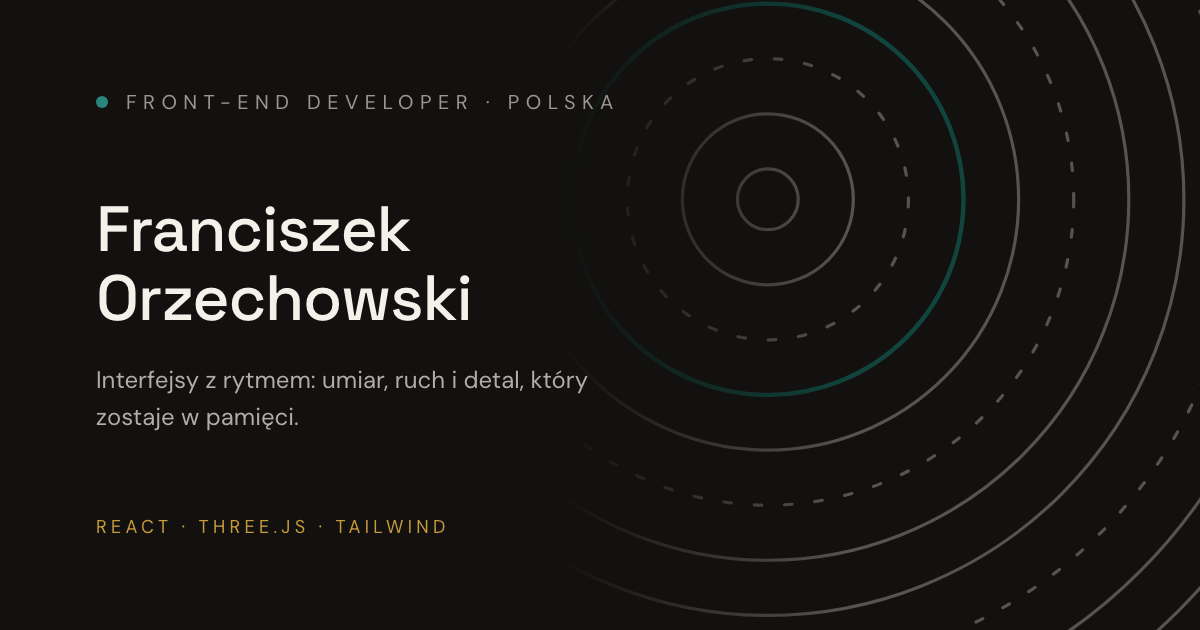
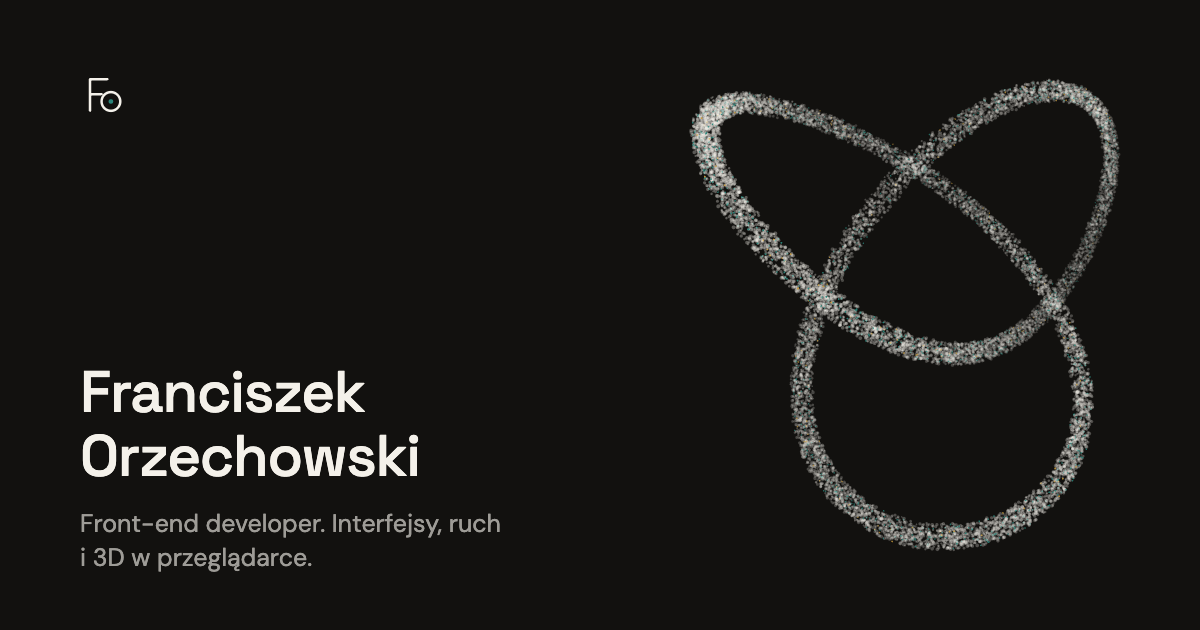
feat: complete meta tags, refresh og image and drop em dashes
- Fill canonical, og:url, og:image and JSON-LD with absolute URLs from
  Netlify's build-time URL via a small Vite HTML plugin.
- Add og:site_name, image alt texts, author and an apple-touch-icon.
- Redraw og.png from the hero knot geometry; the old image carried a
  role/location tag row and ochre text.
- Rewrite copy and meta without em dashes and normalise dashes in GitHub
  commit messages before they render.

diff --git a/index.html b/index.html
@@ -4,32 +4,70 @@
     <meta charset="UTF-8" />
     <meta name="viewport" content="width=device-width, initial-scale=1.0" />
     <link rel="icon" type="image/svg+xml" href="/favicon.svg" />
+    <link rel="apple-touch-icon" href="/apple-touch-icon.png" />
 
-    <title>Franciszek Orzechowski — Portfolio</title>
+    <title>Franciszek Orzechowski · Front-end developer</title>
     <meta
       name="description"
-      content="Portfolio Franka Orzechowskiego — front-end developer specjalizujący się w nowoczesnych interfejsach, animacjach i 3D."
+      content="Franciszek Orzechowski, front-end developer z Warszawy. React i TypeScript, ruch i 3D w przeglądarce, a do tego backend: Node, Java i bazy danych."
     />
-
-    <meta property="og:type" content="website" />
-    <meta property="og:title" content="Franciszek Orzechowski — Portfolio" />
-    <meta
-      property="og:description"
-      content="Front-end developer · interfejsy, motion, 3D."
-    />
-    <meta property="og:locale" content="pl_PL" />
-    <meta property="og:image" content="/og.png" />
-    <meta property="og:image:width" content="1200" />
-    <meta property="og:image:height" content="630" />
+    <meta name="author" content="Franciszek Orzechowski" />
+    <link rel="canonical" href="%SITE_URL%/" />
     <meta name="theme-color" content="#12110f" />
 
+    <meta property="og:type" content="website" />
+    <meta property="og:url" content="%SITE_URL%/" />
+    <meta property="og:site_name" content="Franciszek Orzechowski" />
+    <meta
+      property="og:title"
+      content="Franciszek Orzechowski · Front-end developer"
+    />
+    <meta
+      property="og:description"
+      content="Front-end developer z Warszawy. Interfejsy, ruch i 3D w przeglądarce."
+    />
+    <meta property="og:locale" content="pl_PL" />
+    <meta property="og:image" content="%SITE_URL%/og.png" />
+    <meta property="og:image:type" content="image/png" />
+    <meta property="og:image:width" content="1200" />
+    <meta property="og:image:height" content="630" />
+    <meta
+      property="og:image:alt"
+      content="Franciszek Orzechowski, front-end developer. Węzeł z cząsteczek na ciemnym tle."
+    />
+
     <meta name="twitter:card" content="summary_large_image" />
-    <meta name="twitter:title" content="Franciszek Orzechowski — Portfolio" />
+    <meta
+      name="twitter:title"
+      content="Franciszek Orzechowski · Front-end developer"
+    />
     <meta
       name="twitter:description"
-      content="Front-end developer · interfejsy, motion, 3D."
+      content="Front-end developer z Warszawy. Interfejsy, ruch i 3D w przeglądarce."
     />
-    <meta name="twitter:image" content="/og.png" />
+    <meta name="twitter:image" content="%SITE_URL%/og.png" />
+    <meta
+      name="twitter:image:alt"
+      content="Franciszek Orzechowski, front-end developer. Węzeł z cząsteczek na ciemnym tle."
+    />
+
+    <script type="application/ld+json">
+      {
+        "@context": "https://schema.org",
+        "@type": "Person",
+        "name": "Franciszek Orzechowski",
+        "jobTitle": "Front-end developer",
+        "url": "%SITE_URL%/",
+        "image": "%SITE_URL%/og.png",
+        "address": {
+          "@type": "PostalAddress",
+          "addressLocality": "Warszawa",
+          "addressCountry": "PL"
+        },
+        "knowsAbout": ["React", "TypeScript", "WebGL", "Three.js", "Node.js"],
+        "sameAs": ["https://github.com/fraorzi"]
+      }
+    </script>
   </head>
   <body>
     <div id="root"></div>

diff --git a/src/content/site.ts b/src/content/site.ts
@@ -46,7 +46,7 @@ export const contact = {
 
 export const hero = {
   title: 'Front-end developer. Interfejsy, ruch i\u00a03D w\u00a0przeglądarce',
-  lead: 'Franciszek Orzechowski, Warszawa. Na co dzień React i TypeScript; kiedy trzeba zejść niżej — Node, Java, Swift i bazy danych.',
+  lead: 'Franciszek Orzechowski, Warszawa. Na co dzień React i TypeScript, a kiedy trzeba zejść niżej: Node, Java, Swift i bazy danych.',
   primaryCta: 'Zobacz projekt',
   secondaryCta: 'Napisz do mnie',
 };
@@ -54,7 +54,7 @@ export const hero = {
 export const about = {
   title:
     'Piszę front-end od kilku lat. Backend znam na tyle, żeby projektować całość, nie tylko warstwę widoku',
-  body: 'Pracuję głównie w React i TypeScript. Interesują mnie ruch, 3D w przeglądarce i te małe decyzje, przez które produkt wydaje się przemyślany. Ostatnio dużo czasu spędzam w Swift i C, pisząc narzędzie do przeglądu kodu. Znam też drugą stronę — Node, Java, bazy danych — więc z backendem rozmawiam bez tłumacza.',
+  body: 'Pracuję głównie w React i TypeScript. Interesują mnie ruch, 3D w przeglądarce i te małe decyzje, przez które produkt wydaje się przemyślany. Ostatnio dużo czasu spędzam w Swift i C, pisząc narzędzie do przeglądu kodu. Znam też drugą stronę (Node, Java, bazy danych), więc z backendem rozmawiam bez tłumacza.',
   facts: [
     { label: 'Baza', value: 'Warszawa' },
     { label: 'Praca', value: 'zdalnie lub hybrydowo' },
@@ -79,12 +79,12 @@ export const projects: readonly Project[] = [
     repo: { owner: 'fraorzi', name: 'diffscope_swift' },
     title: 'DiffScope',
     summary:
-      'Aplikacja macOS do przeglądu diffów w lokalnych repozytoriach Git. Dopasowuje zmiany strukturalnie, nie tylko liniami — i nigdy nie ukrywa różnicy w tekście.',
+      'Aplikacja macOS do przeglądu diffów w lokalnych repozytoriach Git. Dopasowuje zmiany strukturalnie, nie tylko liniami, i nigdy nie ukrywa różnicy w tekście.',
     role: 'Solo: produkt, architektura, silnik diffów',
     platform: 'macOS · tylko odczyt · bez sieci',
     detail: [
       'Silnik w C wyrównuje edycje strukturalnie: usunięty wrapper JSX, przestawione propsy czy przeformatowany plik czytają się jako to, czym są.',
-      'Trzy tryby widoku — strukturalny, rozszerzony, surowy — zawsze side-by-side. Dokładny tekst źródłowy jest źródłem prawdy.',
+      'Trzy tryby widoku: strukturalny, rozszerzony i surowy, zawsze side-by-side. Dokładny tekst źródłowy jest źródłem prawdy.',
       'Diff strukturalny dla TS, TSX, JS i JSX; pozostałe pliki jako czytelnie oznaczony diff tekstowy.',
     ],
     stack: ['Swift', 'C', 'SwiftUI', 'Git'],
@@ -141,7 +141,7 @@ export const recentCopy = {
   lead: 'Tempo pracy z ostatnich dwunastu tygodni.',
   commits: (weeks: number) => `commitów w ostatnich ${weeks} tygodniach`,
   activityLabel: 'Commity tygodniowo',
-  empty: 'GitHub chwilowo nie odpowiada — pokazuję ostatni zapisany stan.',
+  empty: 'GitHub chwilowo nie odpowiada, więc pokazuję ostatni zapisany stan.',
 };
 
 export const contactCopy = {

diff --git a/vite.config.ts b/vite.config.ts
@@ -20,12 +20,23 @@ function reactScanDev(enabled: boolean): Plugin {
   };
 }
 
+function siteUrl(url: string): Plugin {
+  return {
+    name: 'site-url',
+    transformIndexHtml: {
+      order: 'pre',
+      handler: (html) => html.replaceAll('%SITE_URL%', url),
+    },
+  };
+}
+
 export default defineConfig(({ mode }) => {
   const env = loadEnv(mode, process.cwd(), '');
   const scanEnabled = env.REACT_SCAN !== 'false';
+  const site = (env.URL ?? 'http://localhost:4173').replace(/\/$/, '');
 
   return {
-    plugins: [react(), tailwindcss(), reactScanDev(scanEnabled)],
+    plugins: [react(), tailwindcss(), reactScanDev(scanEnabled), siteUrl(site)],
     resolve: {
       alias: {
         '@': path.resolve(__dirname, './src'),

diff --git a/src/lib/github.ts b/src/lib/github.ts
@@ -128,7 +128,7 @@ export async function fetchRepoSnapshot(
     languages: languageShares(languages.data),
     commits: commits.slice(0, COMMITS_SHOWN).map((c) => ({
       sha: c.sha.slice(0, 7),
-      message: c.commit.message.split('\n')[0],
+      message: c.commit.message.split('\n')[0].replace(/\s*[—–]\s*/g, ' - '),
       date: c.commit.author?.date ?? repo.data.pushed_at,
       url: c.html_url,
     })),

diff --git a/tasks/todo.md b/tasks/todo.md
@@ -104,3 +104,22 @@ Krótkie podsumowanie po każdej zamkniętej partii. Format: `YYYY-MM-DD — co 
 ### Review
 
 Zmiany w `Navbar.tsx` (stałe `MOBILE_SIZE/WIDTH/STEP`, wysokość kontenera filtra liczona z `navItems.length`), `GooeyNav.tsx`, `lib/gooeyNav.ts`. Typecheck, eslint, prettier czyste. Zweryfikowane w przeglądarce przez pomiar DOM i zrzuty na 1024 px i 375 px.
+
+---
+
+## Scena, czytelność i meta (2026-10-02, `fix/scene-readability-meta`)
+
+- [x] Kolor cząsteczek na krawędzi sekcji: `uSplitY` liczone w klatce renderu z bieżącego `scrollY` (dziś canvas jest klatkę za DOM, przy szybkim scrollu Lenisa linia zostaje ~10-15% w tyle)
+- [x] About: reveal słowo po słowie kończy się wcześniej (`end 45%` → `end 60%`)
+- [x] Cząsteczki na tekście: usunąć nieograniczony obrót `elapsed * 0.02` (po kilku minutach kształty przejeżdżają nad tekst), helisa w Recent poza listą commitów; pomiar pokrycia tekstu na desktopie i mobile
+- [x] Em dashe: copy w `site.ts`, `index.html`, wiadomości commitów z GitHuba
+- [x] Meta: absolutne URL-e (Netlify `URL`), canonical, `og:url`, `og:site_name`, alt obrazka, author, apple-touch-icon, JSON-LD; nowy `og.png` zgodny z obecnym designem
+
+### Review
+
+- Kolor: `useSceneScroll` → `useSceneLayout` (tylko pomiar sekcji), `readSceneFrame()` w ticku `pointField.ts`. Test: przewinięcie w rAF i odczyt pikseli z WebGL w następnej klatce. Przed: krawędź DOM 300 px, zmiana koloru 450 px. Po: 300/300, 550/550, 200/200; w trakcie scrolla Lenisa zgodność co do 4 px.
+- Nachodzenie: obrót to parallax + `sin` (±0.08 rad); orbita wokół monogramu, oplot pod kartami, helisa pionowo w lewej kolumnie Recent; mesh skalowany szerokością treści / wysokością (0.6-1.2); offset sekcji jako przesunięcie w przestrzeni ekranu (`uShift`) zamiast ruchu kamery, bez wygładzania; mobile: pas kształtów wyżej (`shiftY 1.4`, `scale 0.55`), mniejsza spirala. Pomiar: rzut punktów kontra prostokąty tekstu (pad 6-8 px) dla 1024×768, 1280×800, 1440×700, 1440×900, 1512×945, 1920×1080, 2560×1440, 768×1024, 360×640, 375×812, 390×664, 430×932, przy każdej pozycji scrolla z ukształtowaną figurą: 0% (najgorszy przypadek z parallaxem 1.7% przy 1440×700). Realny render WebGL 1440×900: 0% pikseli cząsteczek na tekście we wszystkich sekcjach.
+- Reveal About: ostatnie słowo ma krycie 1.00 przy dole akapitu na 60% ekranu (0.72 przy 62%).
+- Em dashe: 0 w DOM, atrybutach i `<head>`; wiadomości commitów normalizowane w `github.ts` (`—` → `-`).
+- Meta: build z `URL=https://franciszek-test.netlify.app` daje absolutne canonical/OG/Twitter/JSON-LD, brak `%SITE_URL%` w `dist/index.html`. Nowe `og.png` (1200×630) i `apple-touch-icon.png` (180×180) narysowane z geometrii `targets.ts` i fontów strony.
+- Typecheck, lint (1 stare ostrzeżenie w `StatefulButton.tsx`), Prettier czyste.
